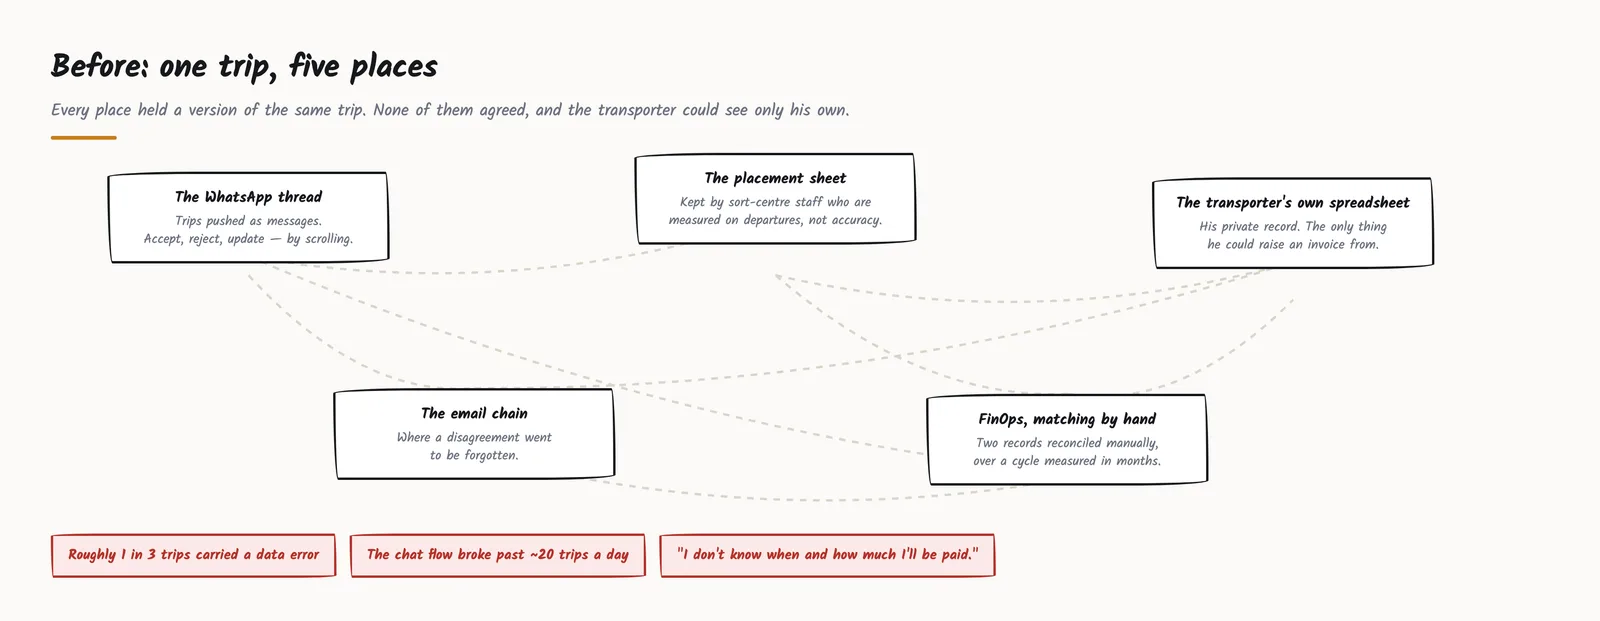
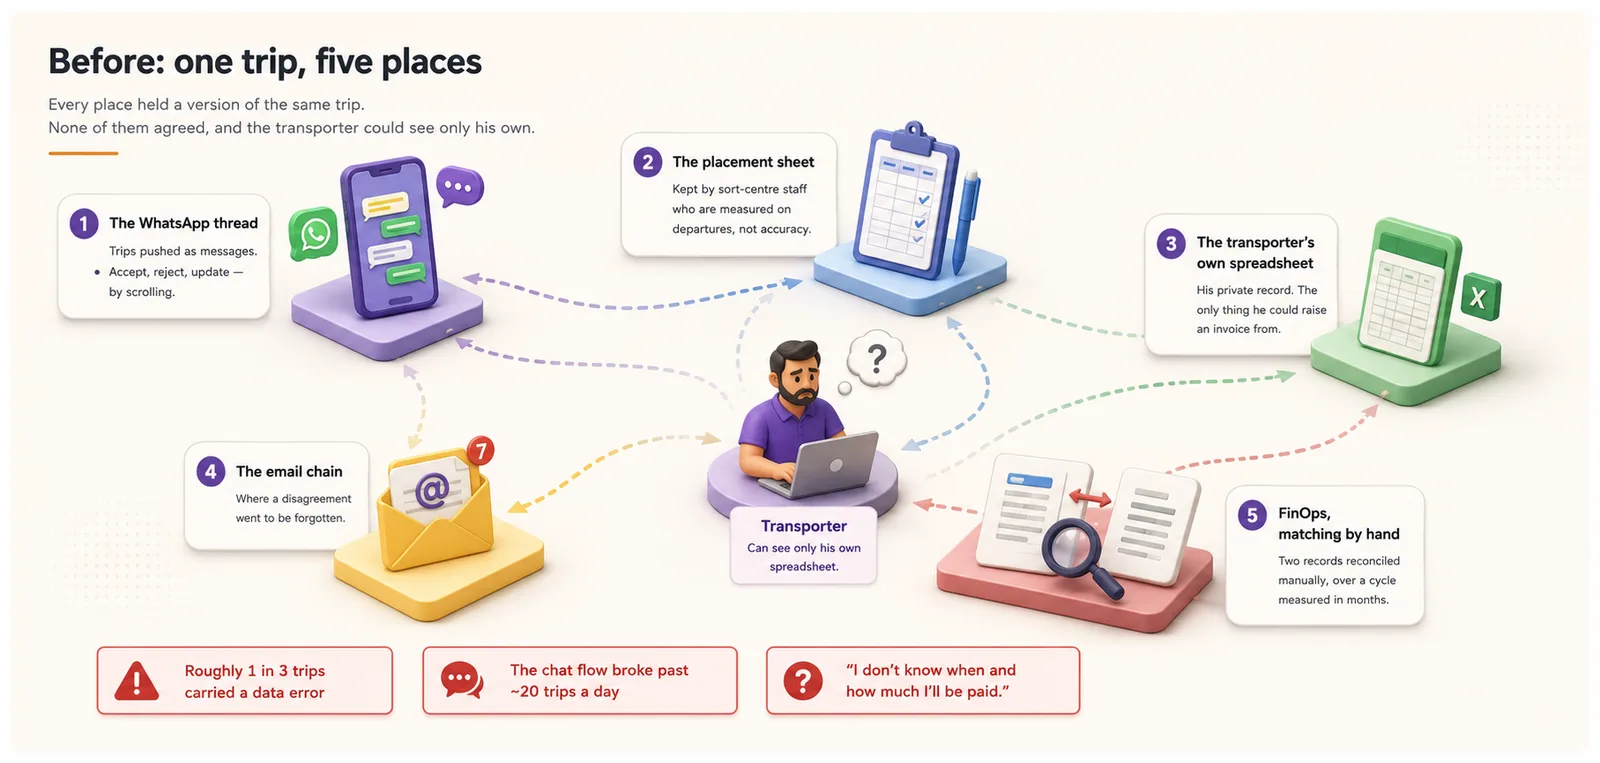
feat(case): user-supplied problem imagery — composite facepalm mock + 3D before-diagram
problem-questions.png (Manav's composition, seven questions baked in) renders
as-is on desktop via problemCards composite mode; small screens swap to the
live cards since baked text is unreadable there, and the alt enumerates the
questions. before-chaos.png replaced with his 3D 'one trip, five places'
diagram; caption dropped (the image self-captions), alt carries the five
records. Fixed a pre-existing 360px bug: ChapterNav's mobile chip bar sat
beside the content in a flex row and stretched the page to 3418px — now the
wrapper stacks on mobile and chips use short navLabels. 0px overflow at 360.

Gates: build green, nda-scan clean, check:facts TPN 0 lost; desktop + 360
verified in browser (structure checks; emulated capture paint is a known
artifact).

diff --git a/src/components/caseStudy/blocks/ProblemCards.tsx b/src/components/caseStudy/blocks/ProblemCards.tsx
@@ -15,6 +15,7 @@ import { useReveal } from './useReveal'
 interface ProblemCardsProps {
   illustration?: string
   illustrationAlt: string
+  composite?: boolean
   punchline?: string
   items: { quote: string; context: string }[]
 }
@@ -37,6 +38,7 @@ function Card({ quote, context, index }: { quote: string; context: string; index
 export function ProblemCards({
   illustration,
   illustrationAlt,
+  composite,
   punchline,
   items,
 }: ProblemCardsProps) {
@@ -44,6 +46,40 @@ export function ProblemCards({
   const splitAt = Math.ceil(items.length / 2)
   const left = items.slice(0, splitAt)
   const right = items.slice(splitAt)
+
+  if (composite && illustration) {
+    // The finished composition carries the questions; alt enumerates them so a
+    // screen reader on desktop loses nothing. Small screens swap to live cards.
+    const compositeAlt = `${illustrationAlt}. Around him, his questions: ${items
+      .map((i) => `“${i.quote}”`)
+      .join(' · ')}`
+    return (
+      <div ref={ref} className="flex flex-col gap-8">
+        <figure className="m-0 hidden lg:block">
+          <img
+            src={illustration}
+            alt={compositeAlt}
+            loading="lazy"
+            className="w-full h-auto block rounded-3xl"
+          />
+        </figure>
+        <div
+          role="list"
+          aria-label="The problems, in their own words"
+          className="lg:hidden flex flex-col gap-10 rounded-3xl bg-pop-blue p-8"
+        >
+          {items.map((item, i) => (
+            <Card key={item.quote} quote={item.quote} context={item.context} index={i} />
+          ))}
+        </div>
+        {punchline && (
+          <p className="font-display font-medium text-lg md:text-xl text-text-hi text-center leading-snug tracking-tight max-w-[40ch] mx-auto">
+            {punchline}
+          </p>
+        )}
+      </div>
+    )
+  }
 
   return (
     // The mock's composition (Manav, 2026-08-16): blue panel, the persona's

diff --git a/src/content/cases/transporter-panel.tsx b/src/content/cases/transporter-panel.tsx
@@ -96,8 +96,7 @@ export const transporterPanel: CaseStudy = {
           type: 'image',
           frame: 'none',
           src: '/work/transporter-panel/before-chaos.png',
-          alt: 'The pre-panel state — one trip held in five places that never agreed',
-          caption: 'One trip, five records, and he could see only his own.',
+          alt: 'Before the panel: one trip held in five places — the WhatsApp thread, the placement sheet, his own spreadsheet, the email chain, and FinOps matching records by hand. None of them agreed, and he could see only his own.',
         },
         {
           // The reference's problem device (ADR-007): his questions around the
@@ -105,8 +104,10 @@ export const transporterPanel: CaseStudy = {
           // Composition + the seven questions locked with Manav 2026-08-16 (his
           // mock); facts unchanged from the problemTabs block this replaces.
           type: 'problemCards',
+          illustration: '/work/transporter-panel/problem-questions.png',
           illustrationAlt:
             'A fleet owner, hand over his face — the nightly reconciliation mood',
+          composite: true,
           items: [
             {
               quote: 'Which of last night’s trips still needs a truck?',

diff --git a/src/components/caseStudy/CaseLayout.tsx b/src/components/caseStudy/CaseLayout.tsx
@@ -98,7 +98,9 @@ export function CaseLayout({ cs }: CaseLayoutProps) {
 
         {/* ── CHAPTERS ─────────────────────────────────────────────── */}
         <div className="max-w-5xl mx-auto px-6 md:px-12 py-16">
-          <div className="flex gap-16 items-start">
+          {/* Column on mobile so the chip bar stacks above the chapters and its
+              overflow-x scroll stays bounded; row with the sticky rail on lg. */}
+          <div className="flex flex-col lg:flex-row gap-8 lg:gap-16 items-stretch lg:items-start">
             {/* Sticky chapter nav — rendered outside the chapters column */}
             <ChapterNav chapters={cs.chapters} />
 

diff --git a/src/content/types.ts b/src/content/types.ts
@@ -88,6 +88,12 @@ export type Block =
       type: 'problemCards'
       illustration?: string
       illustrationAlt: string
+      /**
+       * true = `illustration` is a finished composition with the questions baked
+       * in (Manav's mock): desktop renders the image alone, small screens render
+       * the live cards instead — baked text is unreadable at phone widths.
+       */
+      composite?: boolean
       punchline?: string
       items: { quote: string; context: string }[]
     }

diff --git a/src/components/caseStudy/ChapterNav.tsx b/src/components/caseStudy/ChapterNav.tsx
@@ -111,7 +111,7 @@ export function ChapterNav({ chapters }: ChapterNavProps) {
                   ].join(' ')}
                 >
                   <span className="opacity-50">{String(chapter.step).padStart(2, '0')}</span>
-                  <span>{chapter.title}</span>
+                  <span>{chapter.navLabel ?? chapter.title}</span>
                 </a>
               )
             })}

diff --git a/src/components/caseStudy/BlockRenderer.tsx b/src/components/caseStudy/BlockRenderer.tsx
@@ -146,6 +146,7 @@ export function BlockRenderer({ blocks }: BlockRendererProps) {
                 key={i}
                 illustration={block.illustration}
                 illustrationAlt={block.illustrationAlt}
+                composite={block.composite}
                 punchline={block.punchline}
                 items={block.items}
               />

diff --git a/tasks/lessons.md b/tasks/lessons.md
@@ -3,3 +3,18 @@
 > Rules derived from corrections. Each entry must be concrete and preventive.
 > Format: date — category → rule → context → why
 
+## 2026-08-16 — Communication: internal codenames
+**Rule**: Never use session-invented codes (TPN-01, D4b, ch5) with the user — say "the Transporter Panel case study". Codes live only in files and commit messages.
+**Context**: Asked the user to choose next steps "on the TPN page"; they could not answer because they didn't know what TPN meant.
+**Why**: The codes were invented by earlier chats for internal tracking; the user never adopted them.
+
+## 2026-08-16 — Direction recovery after drift
+**Rule**: When the user says a previous session drifted or hallucinated, do not trust its recorded direction — re-derive from the primary source (the live reference site, the user's own mock) and re-confirm each recorded ask with the user before building.
+**Context**: The handoff's 10-point section order was only "partially right"; the recorded single-amber accent contradicted the reference's five-accent palette, verified live.
+**Why**: A drifted session records its own misunderstandings as facts; the handoff inherits them.
+
+## 2026-08-16 — Baked-text images
+**Rule**: When the user supplies a composition with text baked in, ship it desktop-only with an alt that enumerates the text, and render live equivalents at small widths. Find their exported file in ~/Downloads (match dimensions) instead of asking them to re-save.
+**Context**: The problem-section mock (facepalm + seven questions) arrived as a paste; the export was already on disk as facepalm_man_trip_questions_v2_highres.png.
+**Why**: Pastes never reach the filesystem, but the authoring tool's export almost always does; baked text at 360px is unreadable and invisible to screen readers.
+
